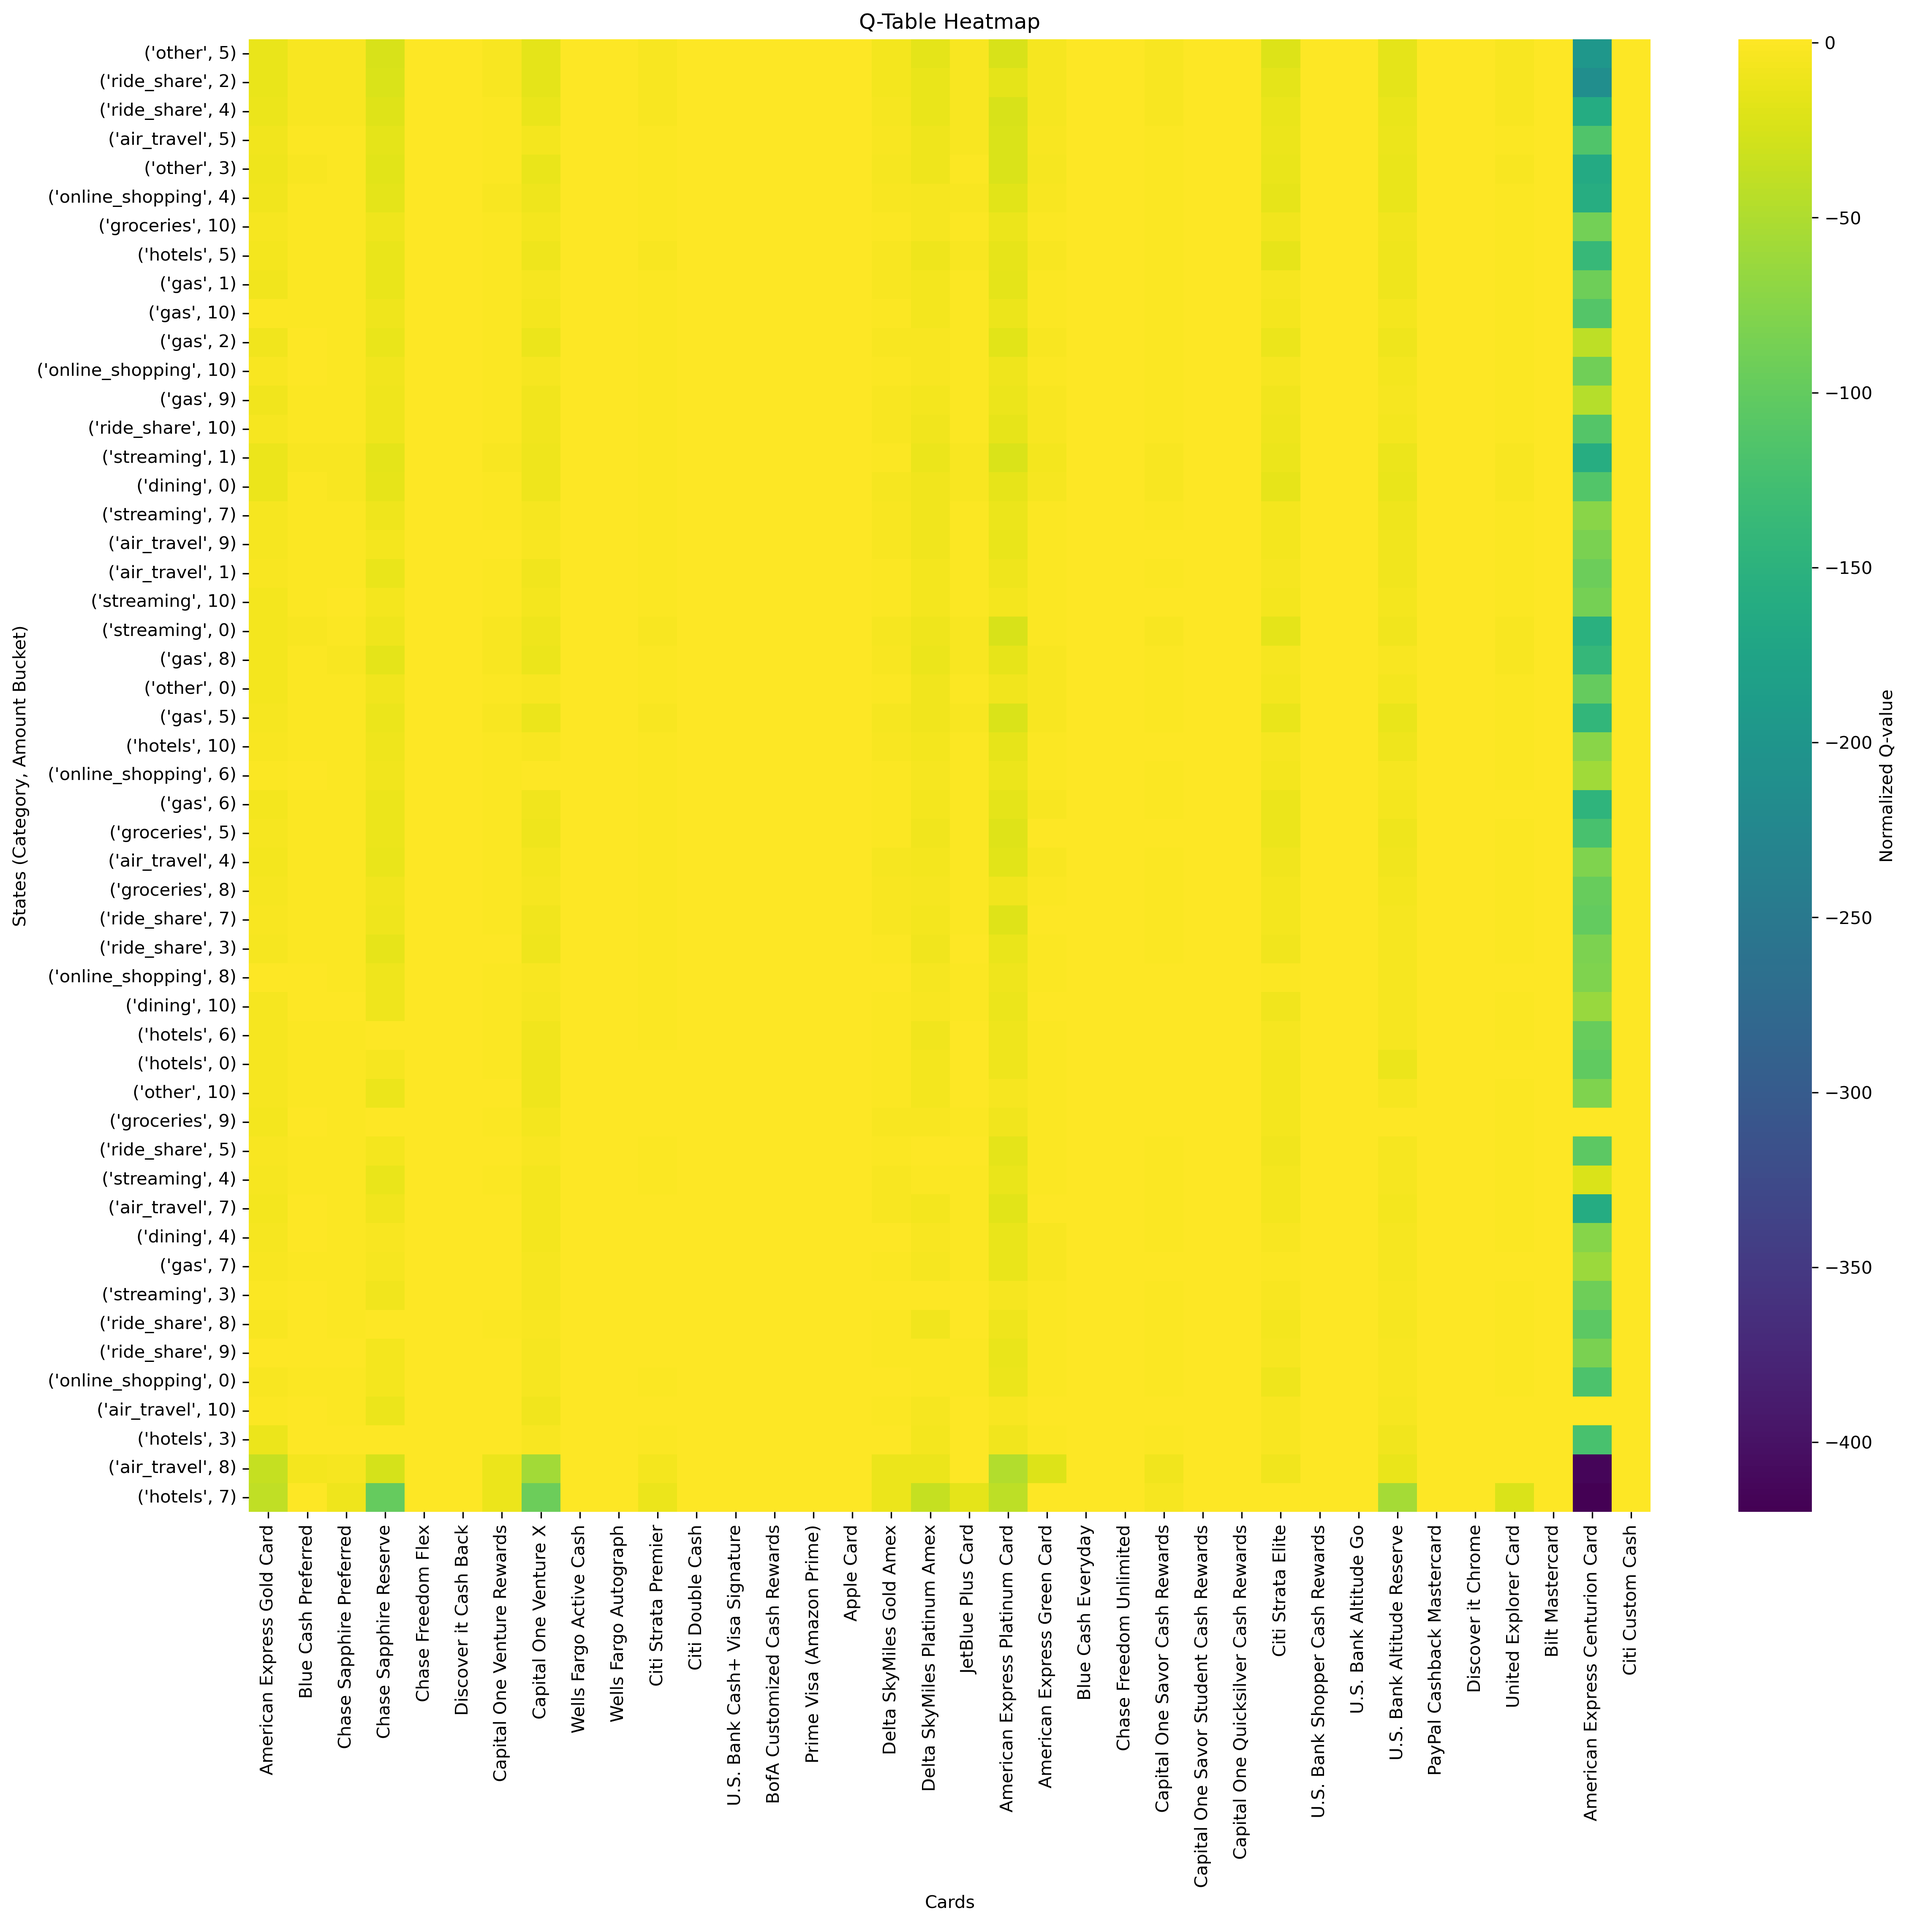
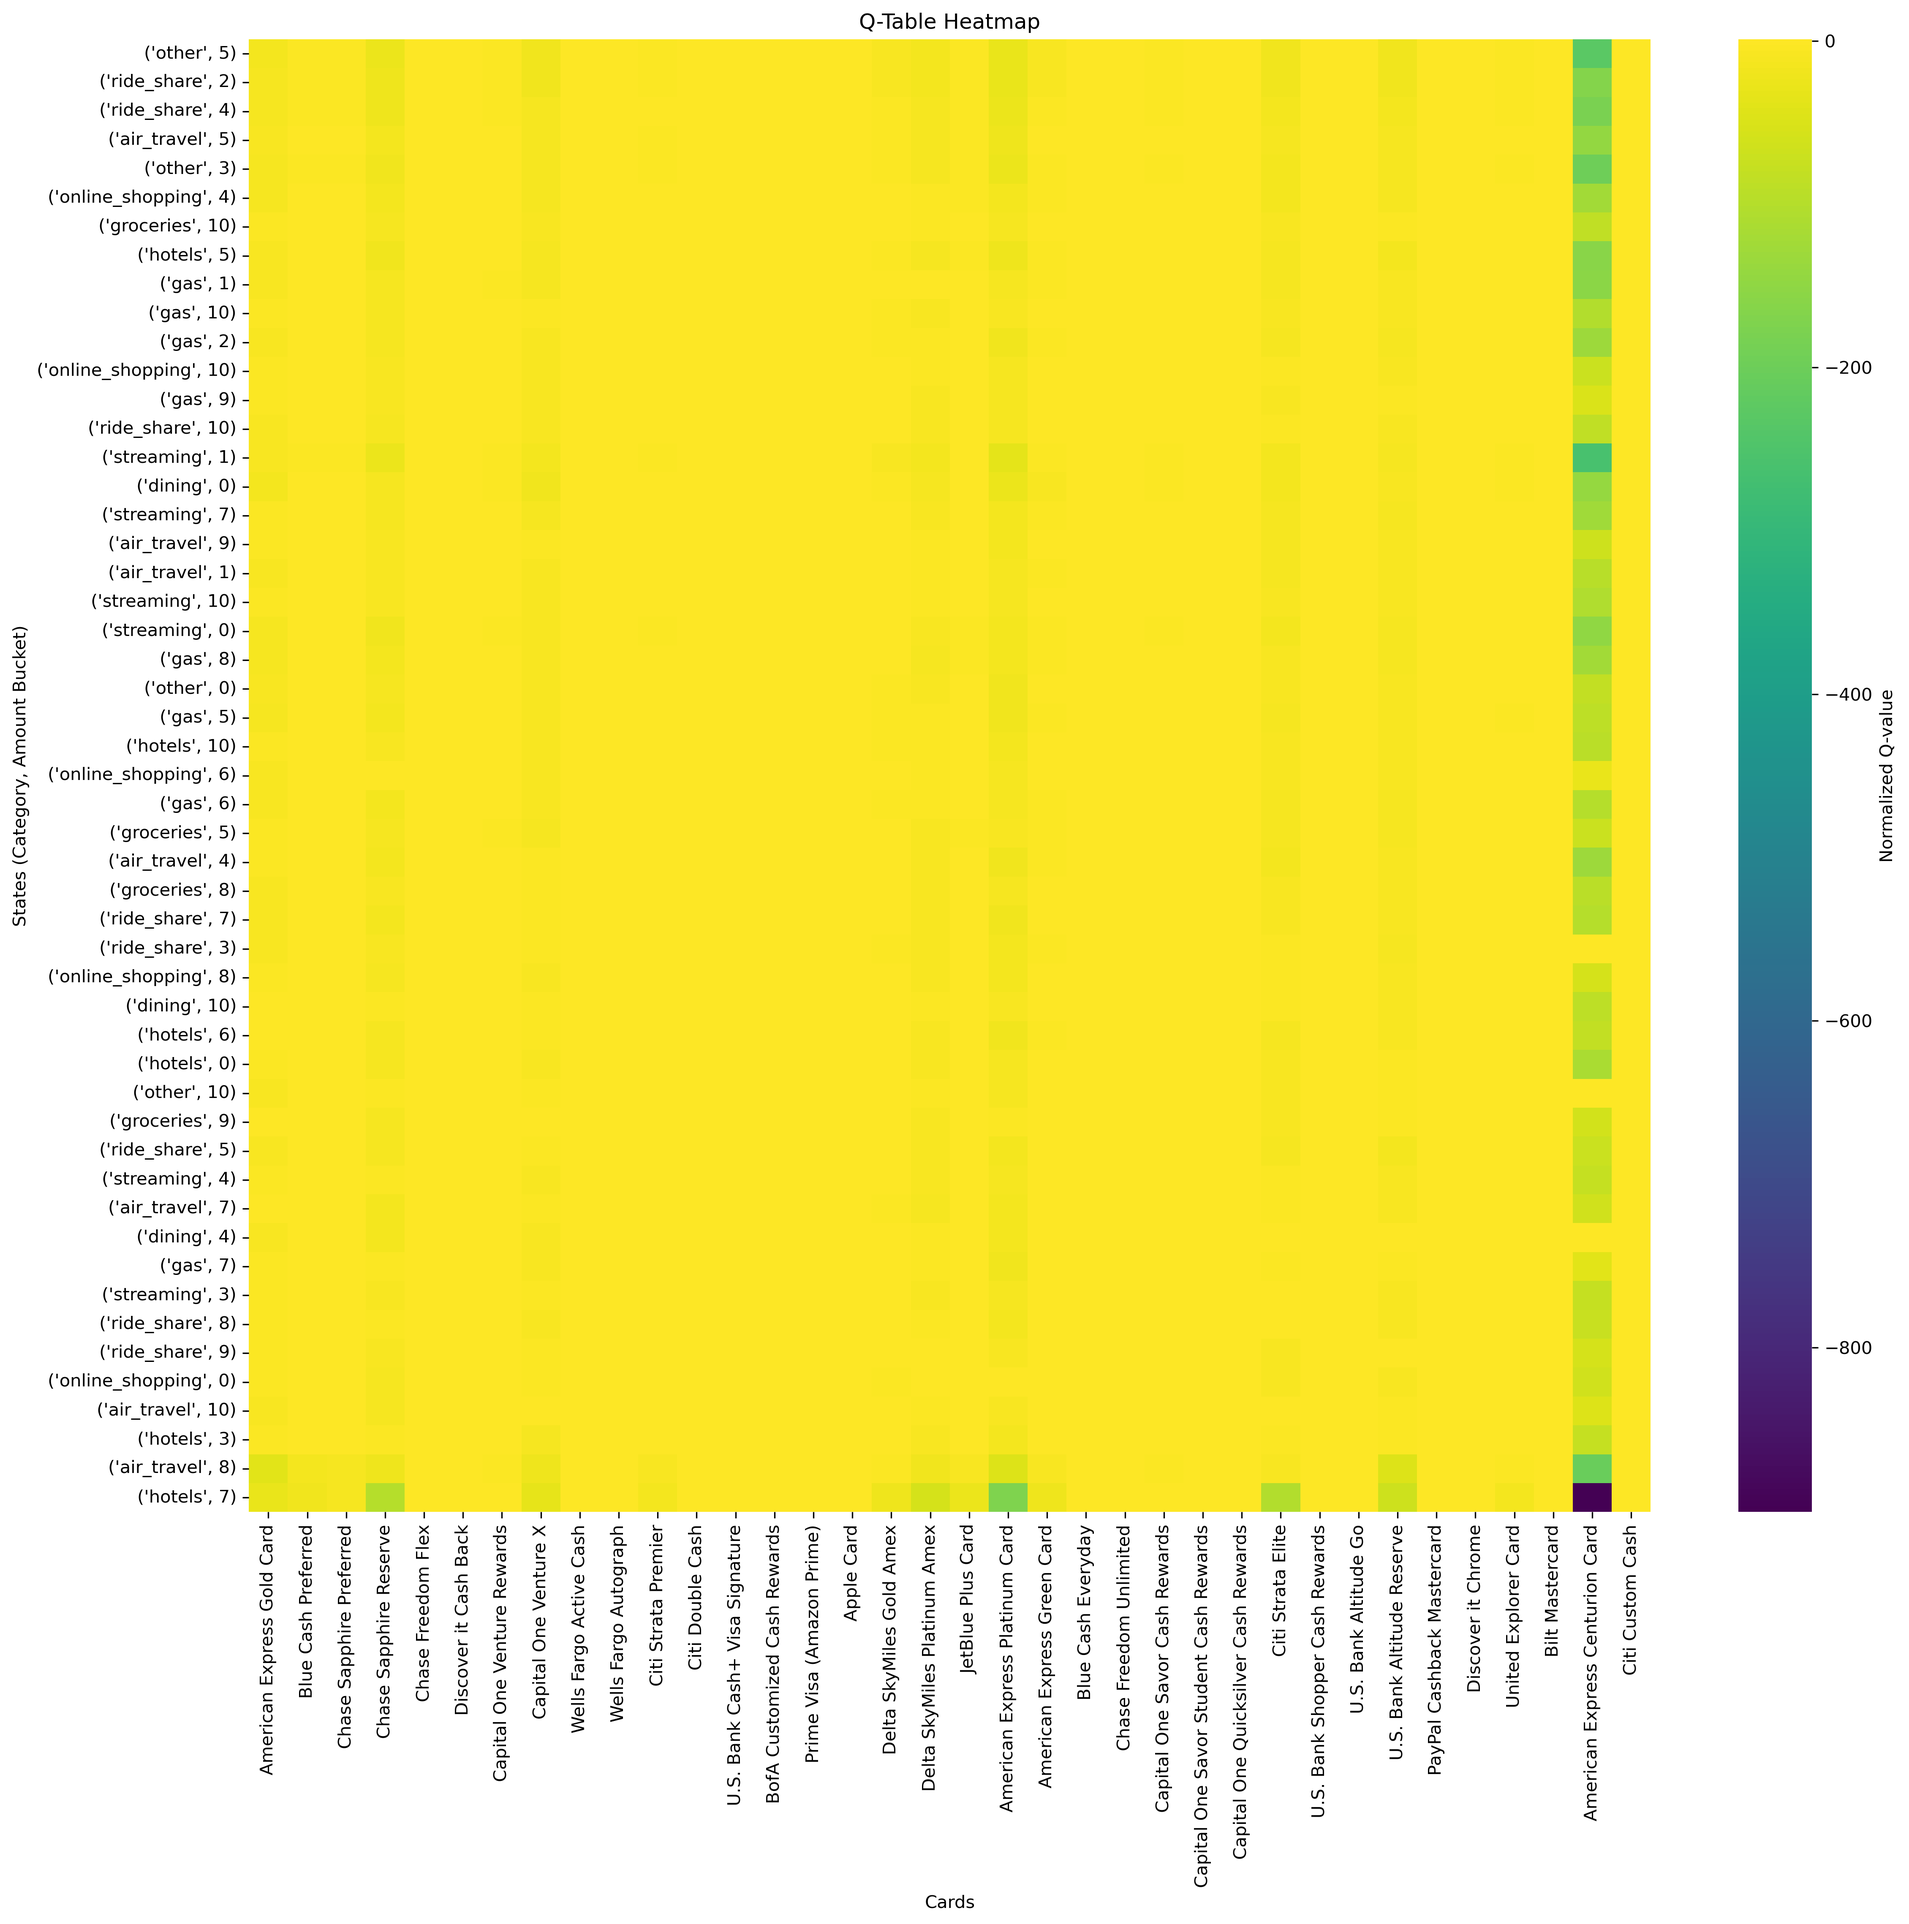
fix and add visualizations

diff --git a/visualizations.py b/visualizations.py
@@ -14,27 +14,31 @@ transactions_df = pd.read_csv("testtransactiondata/fake_transactions.csv")
 env = CreditCardEnv(cards_df, transactions_df, reward_type="both")
 
 # train Q-learning
-Q_table, all_rewards = Q_learning(env, episodes=5000)
+episode = 40000
+Q_table, all_rewards = Q_learning(env, episodes=episode)
 
 recommended_card = recommend_cards_by_category(env, Q_table)
 total_reward, per_card_rewards = evaluate_policy(env, Q_table)
 category_rewards = compute_category_rewards(env, recommended_card)
 
 
-def plot_training_rewards(all_rewards):
+def plot_training_rewards(all_rewards, episode):
     """ create plot to show training rewards over time """
+
     plt.plot(all_rewards, color="blue", label="Rewards per Episode")
     plt.plot(np.cumsum(all_rewards) / np.arange(1, len(all_rewards) + 1), color="red", label="Running Average")
-    plt.title("Training Rewards Over 5000 Episodes")
+    plt.title(f"Training Rewards Over {episode} Episodes")
     plt.xlabel("Number of Episode")
     plt.ylabel("Total Reward")
     plt.legend()
     plt.tight_layout()
+    plt.savefig(f"running_average_{episode}.png", dpi=300, bbox_inches="tight")
     plt.show()
 
 
-def plot_q_table_heatmap(Q_table, env):
-    """ create Q-table heatmap to show what the model learned per category/card """
+def plot_q_table_heatmap(Q_table, env, episode):
+    """ create Q-table heatmap to show what the model learned per category/card
+    used AI to help fix the layout of the plot so that everything could be displayed evenly """
 
     # convert Q_table dictionary to a df
     df = pd.DataFrame.from_dict(Q_table, orient="index")
@@ -42,7 +46,7 @@ def plot_q_table_heatmap(Q_table, env):
     card_names = env.cards["card_name"].tolist()
     df.columns = card_names
 
-    # normalize each row for comparison
+    # normalize each row for comparison to see which card is best
     df_norm = df.div(df.max(axis=1), axis=0).fillna(0)
 
     plt.figure(figsize=(16, max(8, len(df_norm) * 0.3)))
@@ -54,17 +58,16 @@ def plot_q_table_heatmap(Q_table, env):
                 cbar_kws={"label": "Normalized Q-value"},
                 annot=False)
 
-    plt.title("Q-Table Heatmap")
+    plt.title(f"Q-Table Heatmap for {episode} Episodes")
     plt.xlabel("Cards")
     plt.ylabel("States (Category, Amount Bucket)")
     plt.tight_layout()
-    plt.savefig("heatmap.png", dpi=300, bbox_inches="tight")
+    plt.savefig(f"heatmap_{episode}.png", dpi=300, bbox_inches="tight")
     plt.show()
 
 
-def plot_per_card_rewards(per_card_rewards, env):
+def plot_per_card_rewards(per_card_rewards, env, episode):
     """ create a bar plot showing total rewards earned per card """
-    plt.figure(figsize=(12, 6))
 
     # get card names and rewards
     card_names = [env.cards.iloc[i]["card_name"] for i in per_card_rewards.keys()]
@@ -72,14 +75,15 @@ def plot_per_card_rewards(per_card_rewards, env):
 
     sns.barplot(x = card_names, y = rewards)
     plt.xticks(rotation=80)
-    plt.title("Total Rewards Earned Per Card")
+    plt.title(f"Total Rewards Earned Per Card for {episode} Episodes")
     plt.xlabel("Card")
     plt.ylabel("Total Rewards")
     plt.tight_layout()
+    plt.savefig(f"per_card_rewards_{episode}.png", dpi=300, bbox_inches="tight")
     plt.show()
 
 
 # call the functions to create the plots
-plot_training_rewards(all_rewards)
-plot_q_table_heatmap(Q_table, env)
-plot_per_card_rewards(per_card_rewards, env)
+plot_training_rewards(all_rewards, episode)
+plot_q_table_heatmap(Q_table, env, episode)
+plot_per_card_rewards(per_card_rewards, env, episode)

diff --git a/Q_learning.py b/Q_learning.py
@@ -51,6 +51,7 @@ def Q_learning(
     Q_table = {}
     counts = {}
     actions = env.action_space.n
+    all_rewards = []
 
     # Create iterator with or without tqdm based on use_tqdm parameter
     if use_tqdm and progress_callback is None:
@@ -77,6 +78,8 @@ def Q_learning(
         if state not in Q_table:
             Q_table[state] = np.zeros(actions)
             counts[state] = np.zeros(actions)
+
+        total_rewards = 0
             
         # loop through steps until done
         while not done:
@@ -88,6 +91,7 @@ def Q_learning(
                 action = np.random.choice(np.flatnonzero(qvals == qvals.max()))
             # take the action and get the next observation, reward, done, and info
             next_obs, reward, done, info = env.step(action)
+            total_rewards += reward
             
             # if there is no next observation, set the next state to None
             if next_obs is None:
@@ -117,6 +121,8 @@ def Q_learning(
             
             # update the state
             state = next_state
+
+        all_rewards.append(total_rewards)
             
         # decay the epsilon value
         epsilon *= decay
@@ -125,7 +131,7 @@ def Q_learning(
     if progress_callback is not None:
         progress_callback(episodes, episodes)
         
-    return Q_table
+    return Q_table, all_rewards
 
 def evaluate_policy(env, Q_table):
     # initialize total reward and per card reward
@@ -339,7 +345,7 @@ def main():
     # train Q-learning model
     print(f"\nTraining Q-learning model for {args.episodes} episodes...")
     qstart = time.time()
-    Q = Q_learning(env, episodes=args.episodes, use_tqdm=True)
+    Q, all_rewards_lst = Q_learning(env, episodes=args.episodes, use_tqdm=True)
     print(f"Training complete in {time.time()-qstart:.2f}s")
     
     # get recommendations for best card per category

diff --git a/gui.py b/gui.py
@@ -73,7 +73,7 @@ if run_button:
     progress_text.text(f"Episode {current_episode} / {total_episodes}")
 
    # Train the Q-learning model with the progress callback
-   Q = Q_learning(
+   Q, all_rewards_lst = Q_learning(
        env,
        episodes=episodes,
        progress_callback=update_progress,  # Pass the callback function
